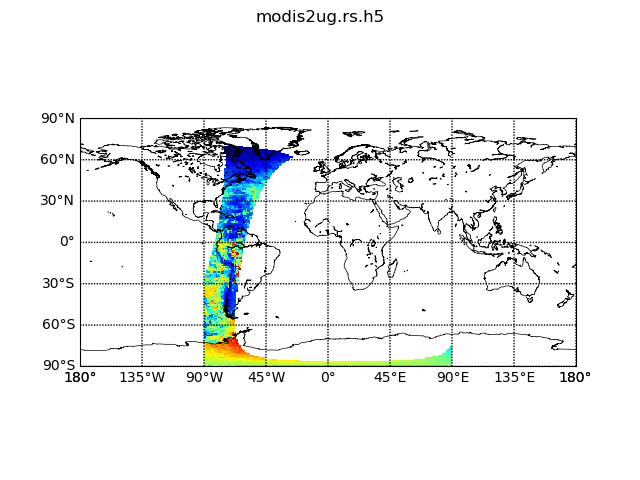
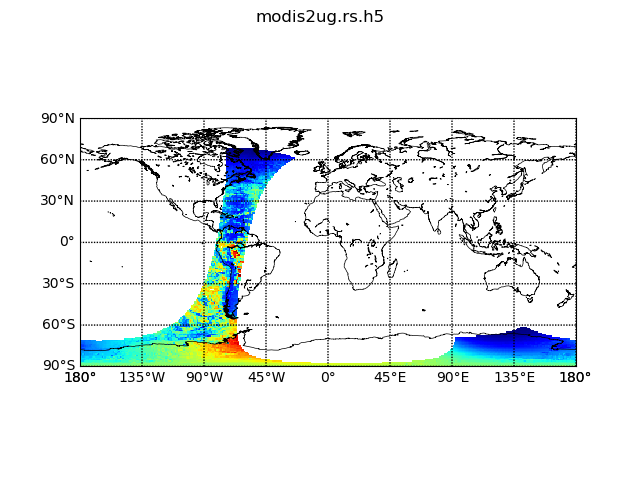
UIACCESS-67:fixed dimension ordering bug.

Changed region(s): [[0.125, 0.3125, 0.4688, 0.7812], [0.6562, 0.6875, 0.9062, 0.7812], [0.4062, 0.75, 0.6562, 0.7812]]

diff --git a/modis2ug.rs.py b/modis2ug.rs.py
@@ -30,7 +30,6 @@ with h5py.File(file_name, 'r') as f:
     # Read MODIS Radiance dataset.
     modis_dset = f['/Target/Data_Fields/MODIS_Radiance']
     modis_data = modis_dset[0,:,:].astype(np.float64)
-    print(modis_data[0,0:10])
     # Read source lat/lon dataset.
     modis_ds_lat = f['/Geolocation/Latitude']
     modis_lat = modis_ds_lat[:,:].astype(np.float64)
@@ -42,13 +41,12 @@ max_r = 5040
 
 # Find indexes of nearest neighbor point.
 
-# For some reason, passing 1-d generates memory error.
-# trg_data = pytaf.resample_s(modis_lat, modis_lon, 
-#                             x, y, modis_data, max_r)
 
-lat, lon = np.meshgrid(x, y)
+lon, lat = np.meshgrid(x, y)
 latd = np.array(lat, dtype='float64')
 lond = np.array(lon, dtype='float64')
+lat_orig = latd.copy()
+lon_orig = lond.copy()
 
 # Create dataset for index and distance.
 n_src = modis_lat.size;
@@ -57,9 +55,12 @@ sy = modis_lat.shape[1]
 index = np.arange(n_src, dtype=np.int32)
 distance = np.arange(n_src, dtype=np.float64).reshape((sy,sx))
 
-trg_data = pytaf.resample(modis_lat, modis_lon,
-                          latd, lond,
-                          modis_data, max_r, True, distance, index)
+# For some reason, passing 1-d generates memory error.
+trg_data = pytaf.resample_s(modis_lat, modis_lon, 
+                            y, x, modis_data, max_r, distance, index)
+# trg_data = pytaf.resample(modis_lat, modis_lon,
+#                           latd, lond,
+#                          modis_data, max_r, True, distance, index)
         
 print('resample_s is done')
 print(trg_data)
@@ -67,8 +68,10 @@ print(trg_data)
 # Open file for writing.
 f2 = h5py.File('modis2ug.rs.h5', 'w')
 dset = f2.create_dataset('/UG_Radiance', data=trg_data)
-dset_lat = f2.create_dataset('/Latitude', data=y)
-dset_lon = f2.create_dataset('/Longitude', data=x)
+# dset_lat = f2.create_dataset('/Latitude', data=y)
+# dset_lon = f2.create_dataset('/Longitude', data=x)
+dset_lat = f2.create_dataset('/Latitude', data=lat_orig)
+dset_lon = f2.create_dataset('/Longitude', data=lon_orig)
 
 # TODO: Add CF attributes on dataset.
 f2.close()

diff --git a/modis2ug.rs.h5.py b/modis2ug.rs.h5.py
@@ -46,7 +46,10 @@ m = Basemap(projection='cyl', resolution='l',
 m.drawcoastlines(linewidth=0.5)
 m.drawparallels(np.arange(-90., 120., 30.), labels=[1, 0, 0, 0])
 m.drawmeridians(np.arange(-180, 180., 45.), labels=[0, 0, 0, 1])
-m.pcolormesh(modis_lat, modis_lon,  datam.T , latlon=True, cmap='jet')
+# m.pcolormesh(modis_lat, modis_lon,  datam.T , latlon=True, cmap='jet')
+m.pcolormesh(modis_lon, modis_lat,  datam , latlon=True, cmap='jet')
+# m.scatter(modis_lon, modis_lat, c=datam, s=1,
+#           edgecolors=None, linewidth=0)
 fig = plt.gcf()
 fig.suptitle('{0}'.format(file_name))
 pngfile = file_name+'.py.png'
